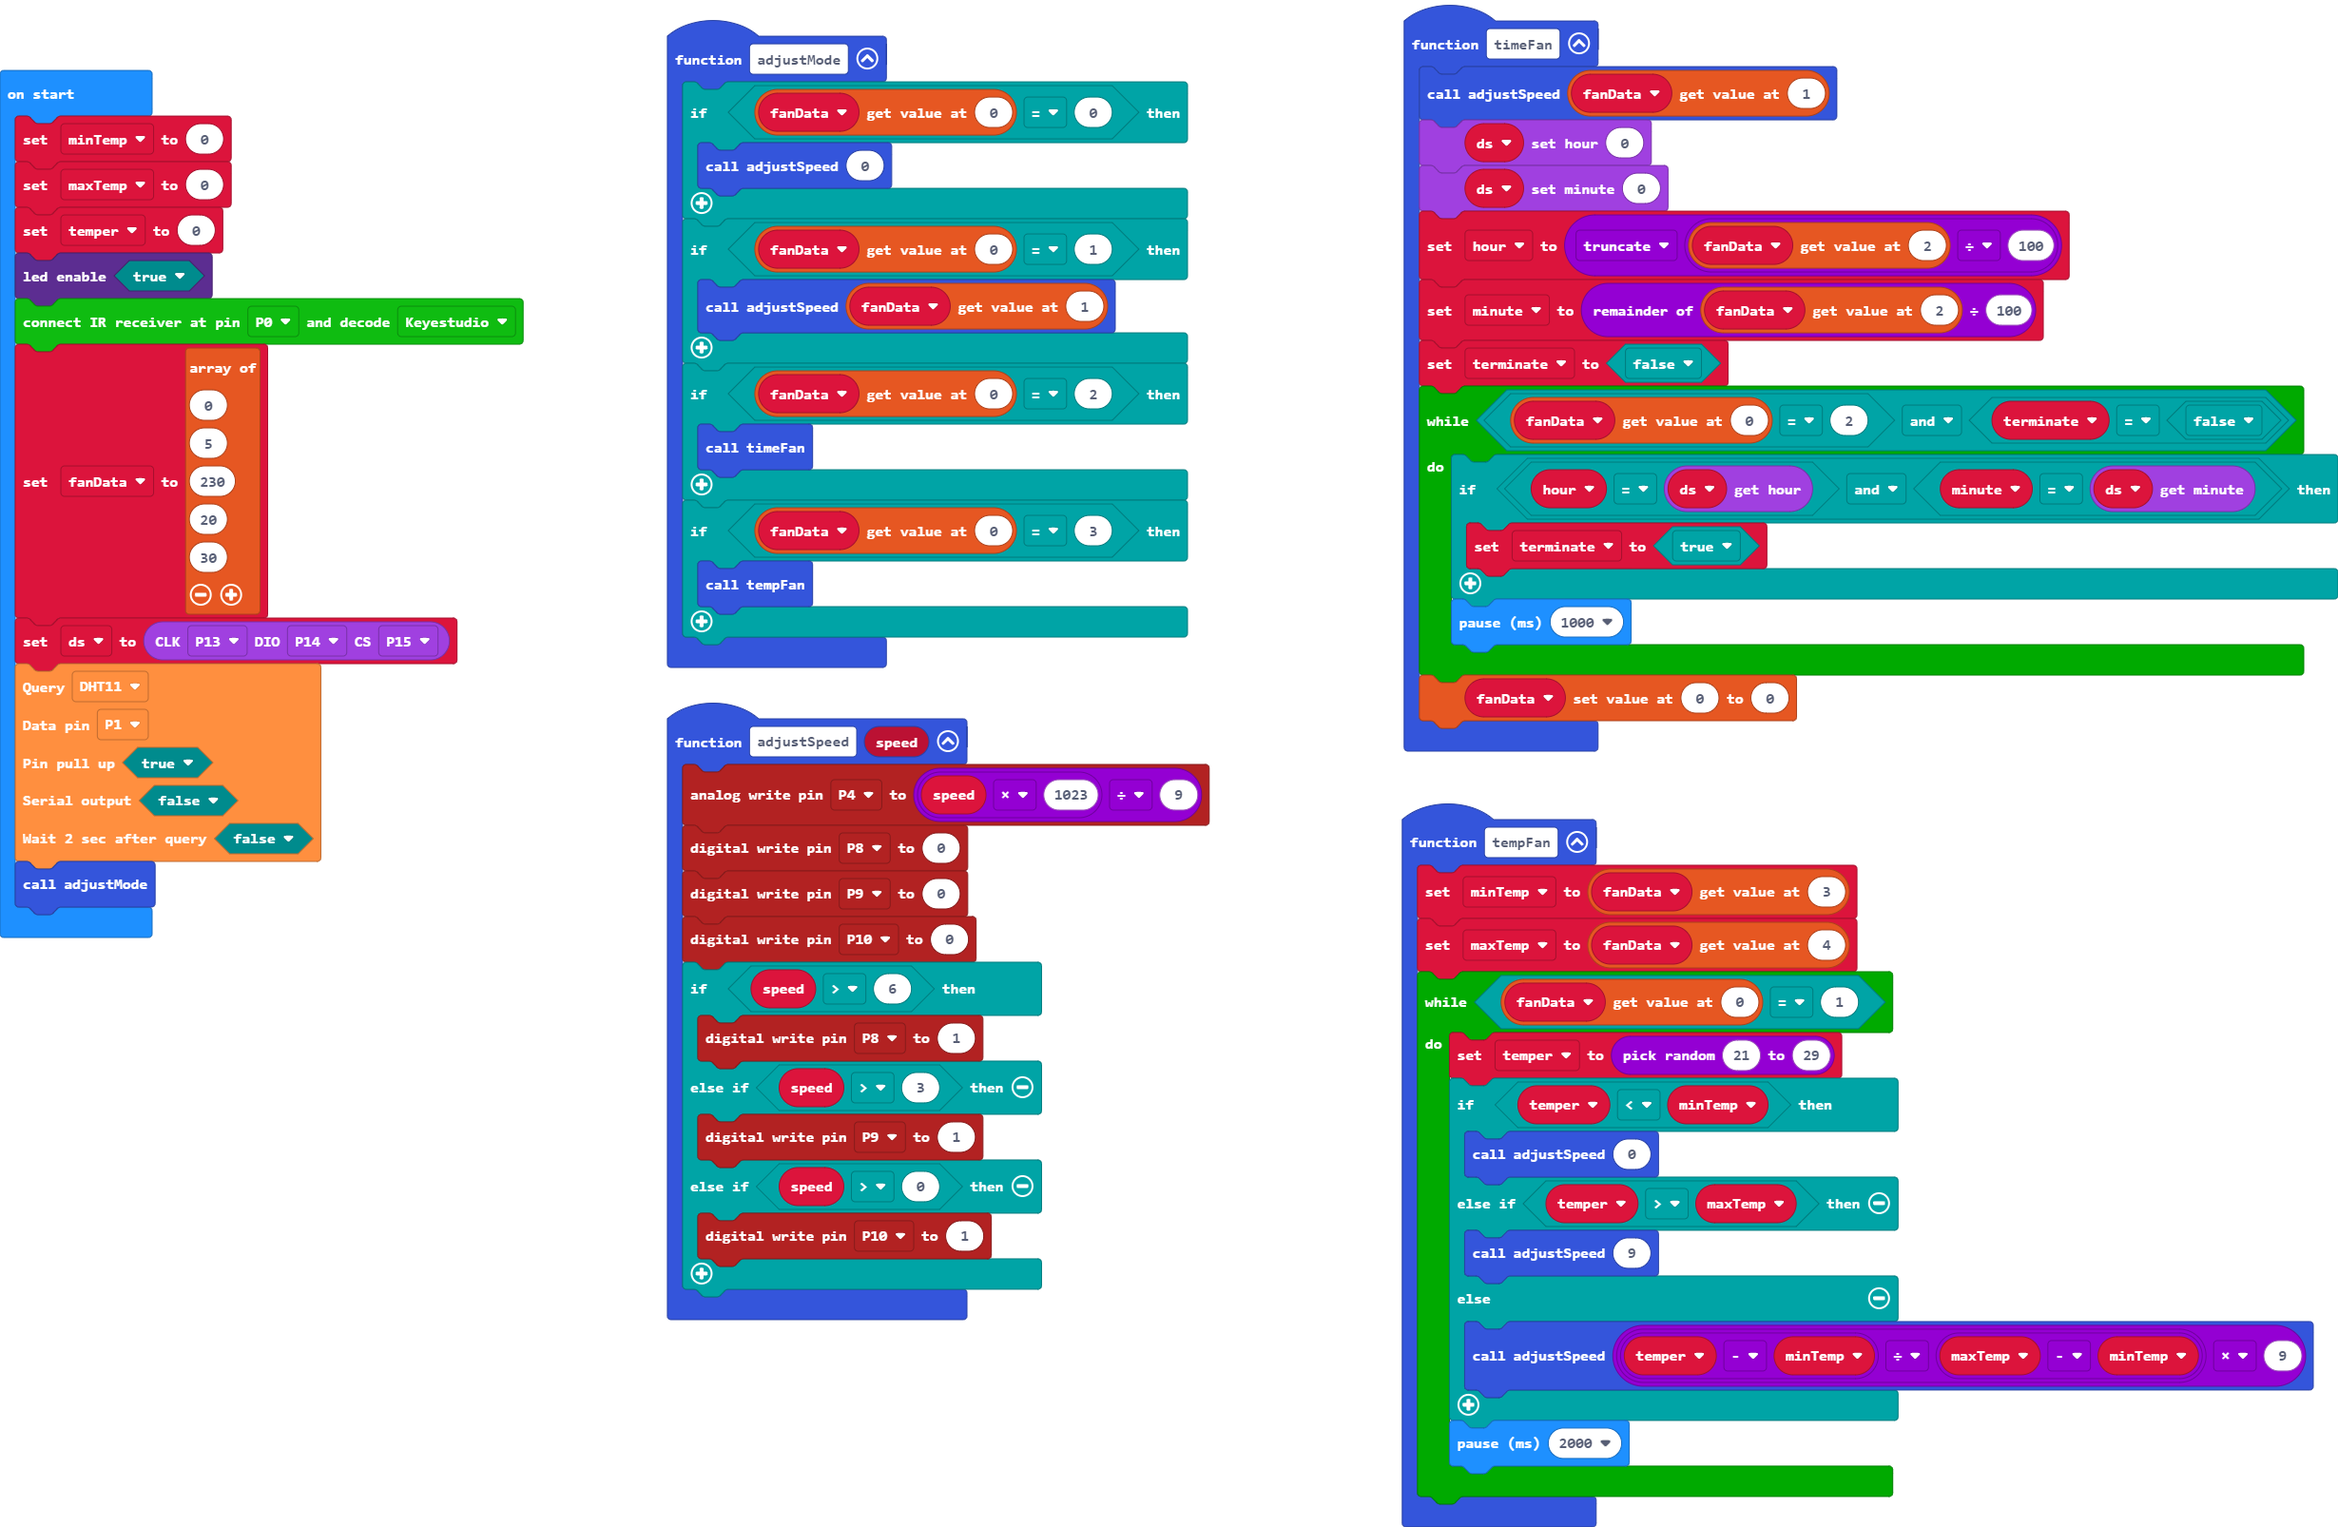
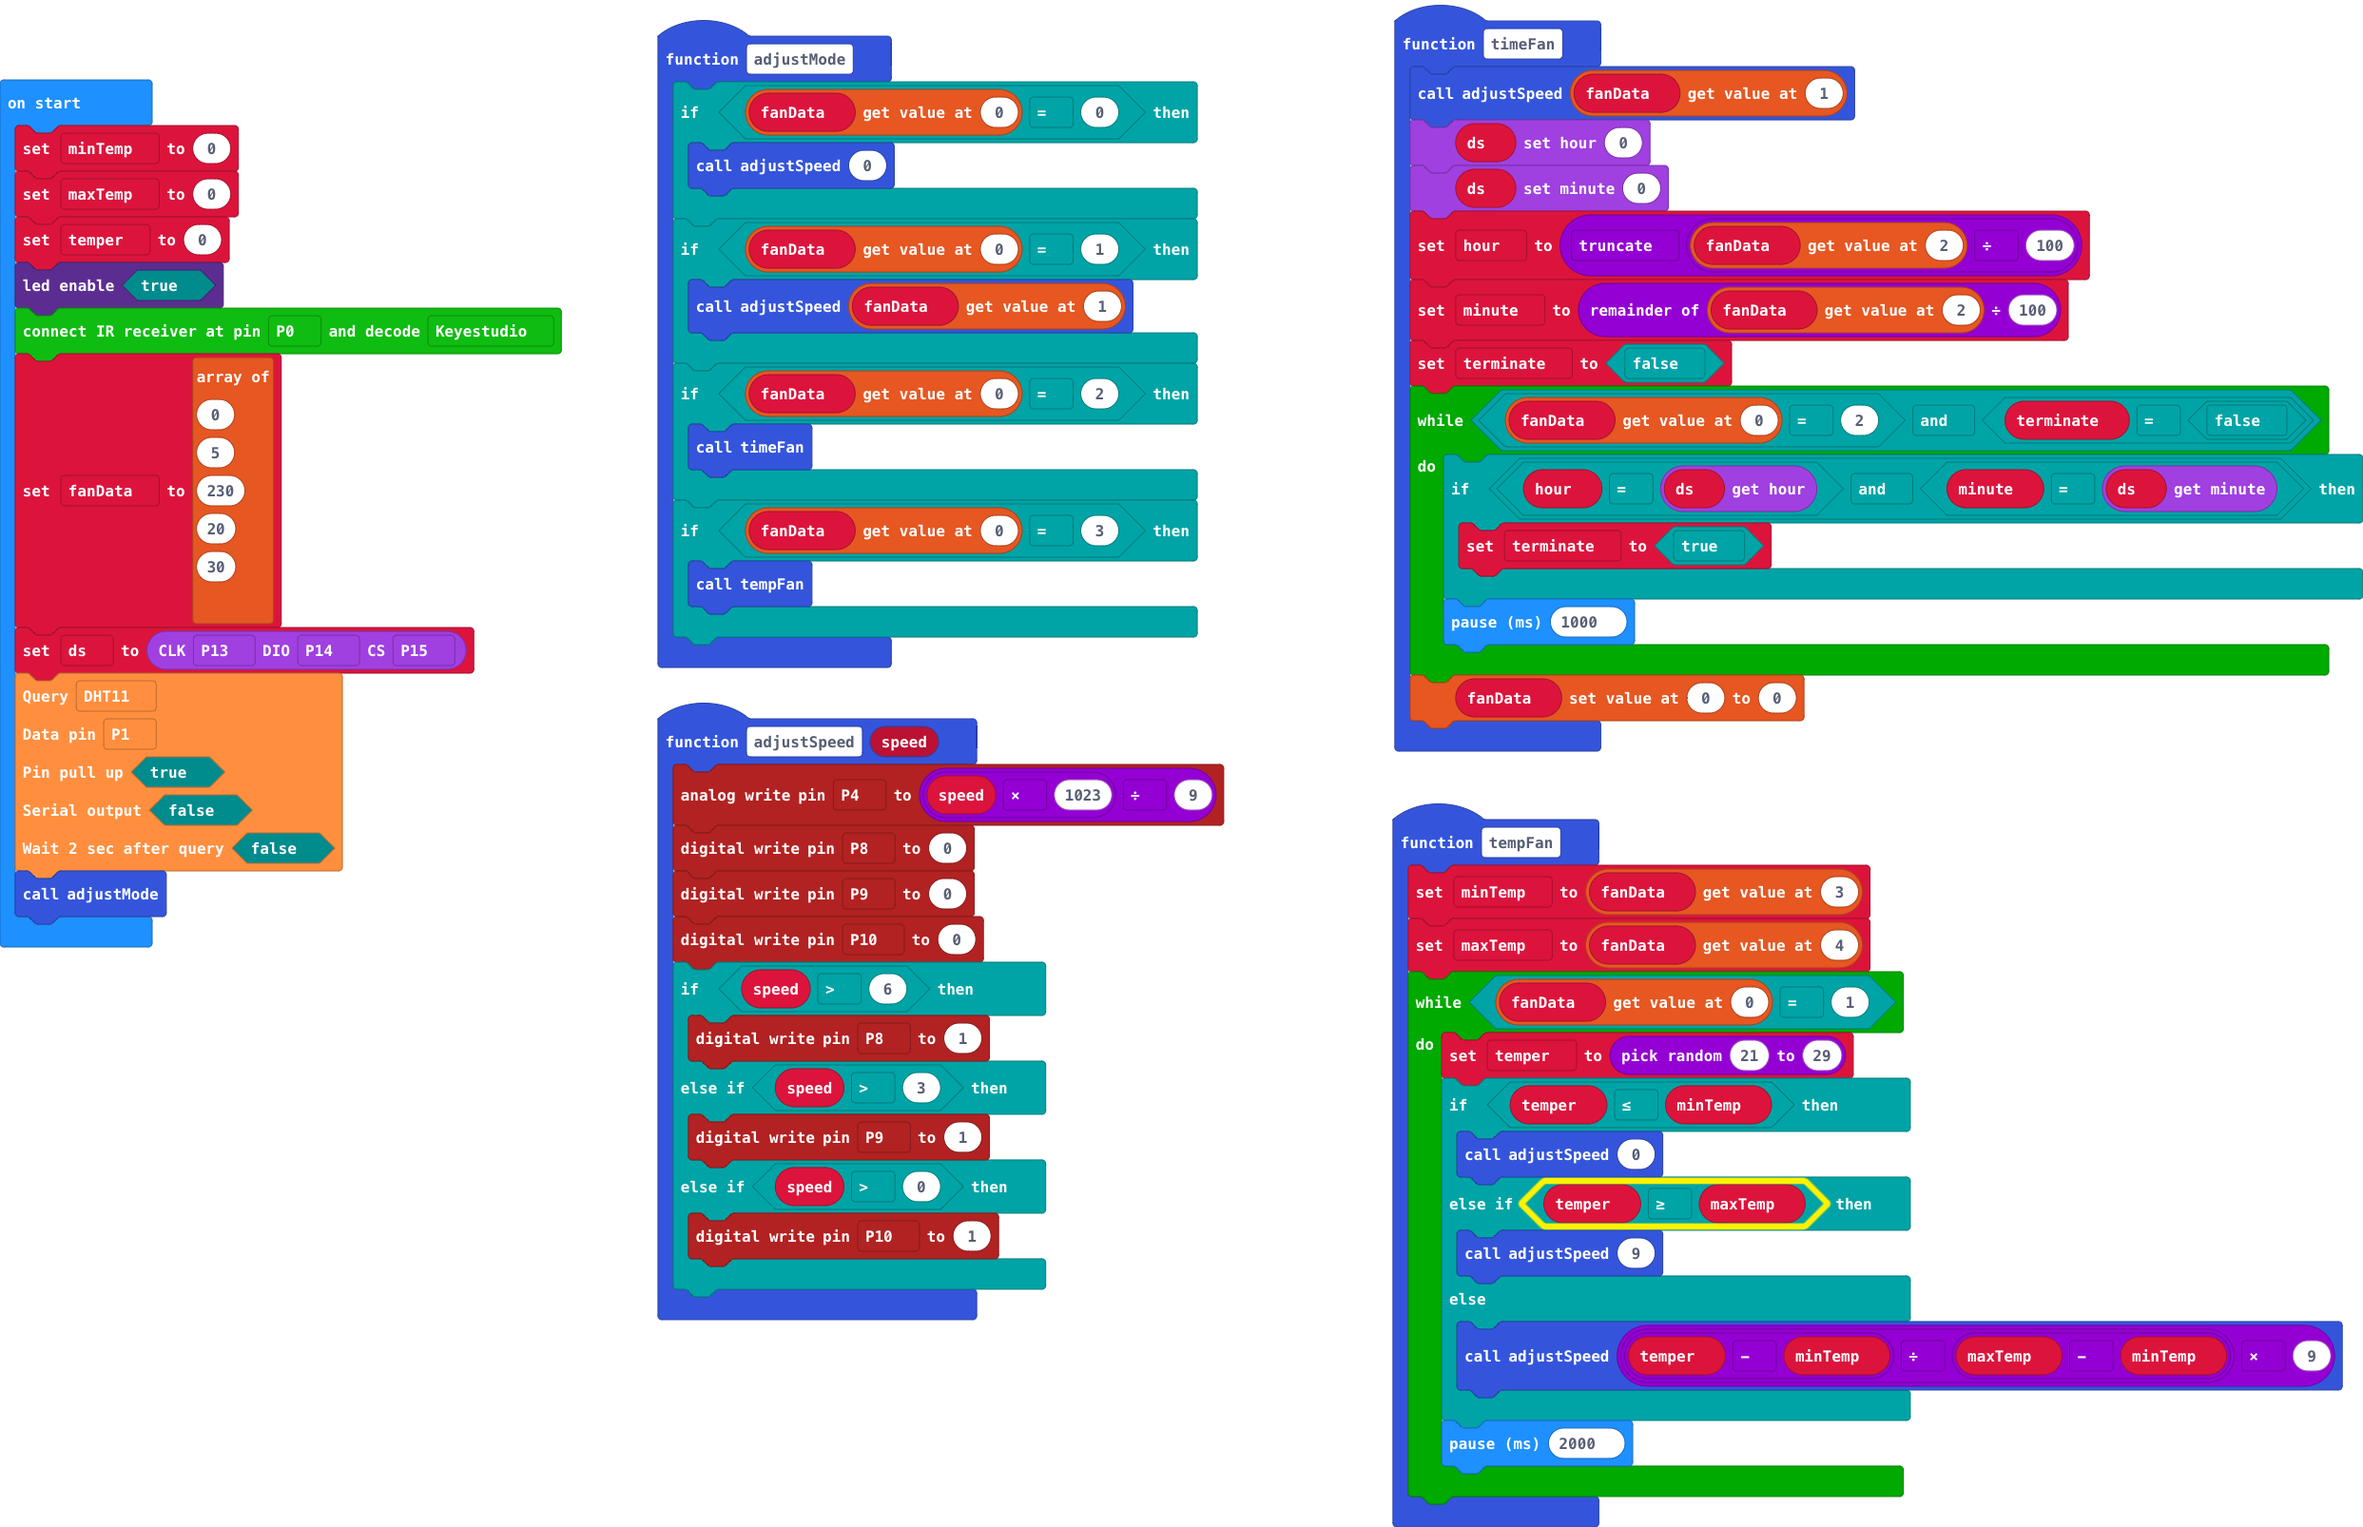
Update pxt.json, main.blocks, main.ts

diff --git a/main.ts b/main.ts
@@ -1,23 +1,48 @@
-function adjustMode() {
+function tempFan () {
+    minTemp = fanData[3]
+    maxTemp = fanData[4]
+    while (fanData[0] == 1) {
+        temper = randint(21, 29)
+        if (temper <= minTemp) {
+            adjustSpeed(0)
+        } else if (temper >= maxTemp) {
+            adjustSpeed(9)
+        } else {
+            adjustSpeed((temper - minTemp) / (maxTemp - minTemp) * 9)
+        }
+        basic.pause(2000)
+    }
+}
+function adjustMode () {
     if (fanData[0] == 0) {
         adjustSpeed(0)
     }
-    
     if (fanData[0] == 1) {
         adjustSpeed(fanData[1])
     }
-    
     if (fanData[0] == 2) {
         timeFan()
     }
-    
     if (fanData[0] == 3) {
         tempFan()
     }
-    
 }
-
-function adjustSpeed(speed: number) {
+function timeFan () {
+    adjustSpeed(fanData[1])
+    ds.setHour(0)
+    ds.setMinute(0)
+    hour = Math.trunc(fanData[2] / 100)
+    minute = fanData[2] % 100
+    terminate = false
+    while (fanData[0] == 2 && terminate == false) {
+        if (hour == ds.getHour() && minute == ds.getMinute()) {
+            terminate = true
+        }
+        basic.pause(1000)
+    }
+    fanData[0] = 0
+}
+function adjustSpeed (speed: number) {
     pins.analogWritePin(AnalogPin.P4, speed * 1023 / 9)
     pins.digitalWritePin(DigitalPin.P8, 0)
     pins.digitalWritePin(DigitalPin.P9, 0)
@@ -29,50 +54,12 @@ function adjustSpeed(speed: number) {
     } else if (speed > 0) {
         pins.digitalWritePin(DigitalPin.P10, 1)
     }
-    
 }
-
-function timeFan() {
-    
-    adjustSpeed(fanData[1])
-    ds.setHour(0)
-    ds.setMinute(0)
-    hour = Math.trunc(fanData[2] / 100)
-    minute = fanData[2] % 100
-    terminate = false
-    while (fanData[0] == 2 && terminate == false) {
-        if (hour == ds.getHour() && minute == ds.getMinute()) {
-            terminate = true
-        }
-        
-        basic.pause(1000)
-    }
-    fanData[0] = 0
-}
-
-function tempFan() {
-    
-    minTemp = fanData[3]
-    maxTemp = fanData[4]
-    while (fanData[0] == 1) {
-        temper = randint(21, 29)
-        if (temper < minTemp) {
-            adjustSpeed(0)
-        } else if (temper > maxTemp) {
-            adjustSpeed(9)
-        } else {
-            adjustSpeed((temper - minTemp) / (maxTemp - minTemp) * 9)
-        }
-        
-        basic.pause(2000)
-    }
-}
-
 let terminate = false
 let minute = 0
 let hour = 0
-let ds : DS1302.DS1302RTC = null
-let fanData : number[] = []
+let ds: DS1302.DS1302RTC = null
+let fanData: number[] = []
 let temper = 0
 let maxTemp = 0
 let minTemp = 0
@@ -81,7 +68,19 @@ maxTemp = 0
 temper = 0
 led.enable(true)
 makerbit.connectIrReceiver(DigitalPin.P0, IrProtocol.Keyestudio)
-fanData = [0, 5, 230, 20, 30]
+fanData = [
+0,
+5,
+230,
+20,
+30
+]
 ds = DS1302.create(DigitalPin.P13, DigitalPin.P14, DigitalPin.P15)
-dht11_dht22.queryData(DHTtype.DHT11, DigitalPin.P1, true, false, false)
+dht11_dht22.queryData(
+DHTtype.DHT11,
+DigitalPin.P1,
+true,
+false,
+false
+)
 adjustMode()
